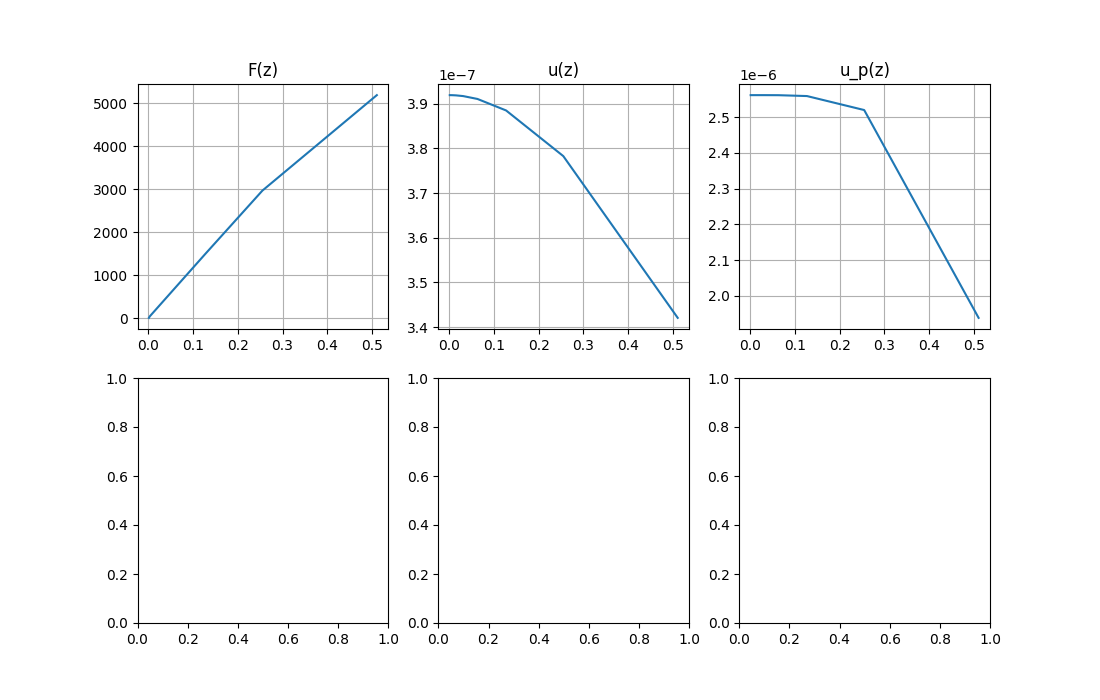
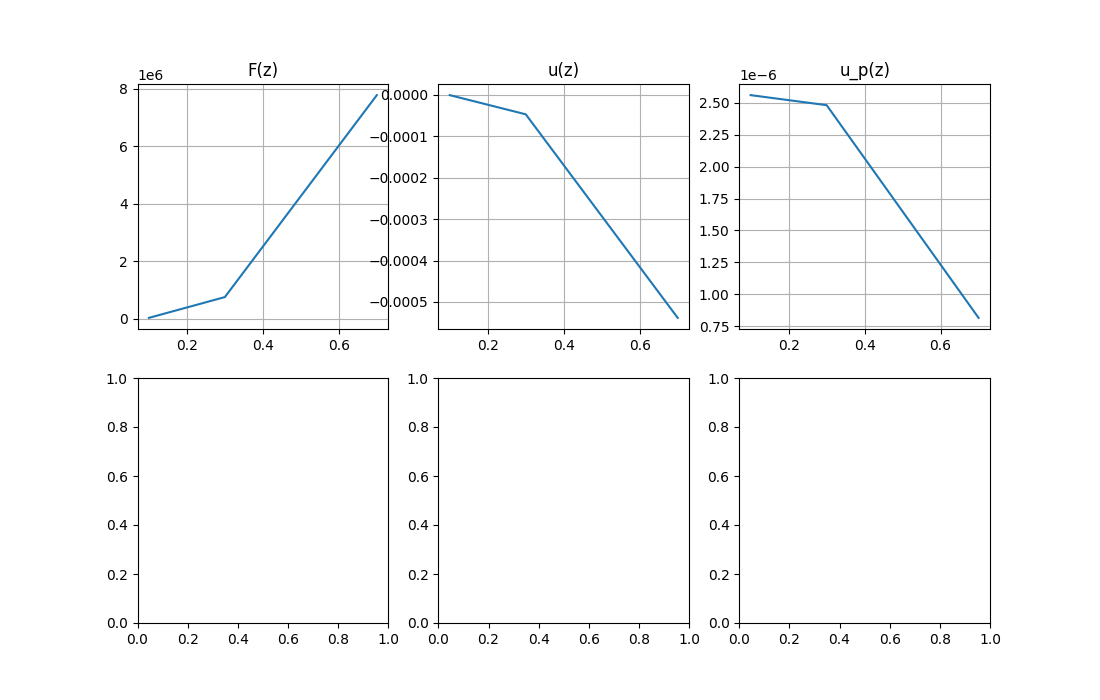
сдал

diff --git a/model/labs/lab_02/src/solution_system.py b/model/labs/lab_02/src/solution_system.py
@@ -2,7 +2,6 @@ import numpy as np
 import matplotlib.pyplot as plt
 from scipy.integrate import solve_ivp
 from typing import Callable
-from decimal import Decimal
 
 from radiation_transfer_system import RadiationTransferSystem
 
@@ -25,7 +24,7 @@ class SolutionSystemByShootingMethod:
         self.__a = 0
         self.__b = 1
 
-        self.__n = 10  # число узлов
+        self.__n = 31  # число узлов
         self.__h = (self.__b - self.__a) / self.__n  # шаг
 
         # ksi <= 1 и, наверное, больше нуля
@@ -188,7 +187,7 @@ class SolutionSystemByShootingMethod:
 
             err = abs((ksi_end - ksi_start) / ksi_curr)
 
-            print(f"err = {err: <10.7e}")
+            # print(f"err = {err: <10.7e}")
 
             if err <= EPS:
                 condition = False
@@ -206,7 +205,7 @@ class SolutionSystemByShootingMethod:
 
         z, u, f, ksi_start, ksi_end = self.__get_solve_by_rk(
             a=self.__a,
-            b=self.__b,
+            b=self.__b + self.__h,
             h=self.__h,
             func_rk=self.__runge_kutta_2
         )
@@ -219,7 +218,7 @@ class SolutionSystemByShootingMethod:
         """
         z, u, f, ksi_start, ksi_end = self.__get_solve_by_rk(
             a=self.__a,
-            b=self.__b,
+            b=self.__b + self.__h,
             h=self.__h,
             func_rk=self.__runge_kutta_4
         )
@@ -270,7 +269,7 @@ class SolutionSystemByShootingMethod:
                 if err < EPS:
                     count += 1
 
-            if count == len(u_rk2):
+            if count == len(u_rk2) - 1:
                 break
 
             self.__n += 1  # число узлов
@@ -297,51 +296,60 @@ class SolutionSystemByShootingMethod:
         Пытаюсь реализовать автоматический выбор шага
         """
         z = self.__a
-        h = 0.001
+        h = 0.1
 
         z_res, u_res, f_res = list(), list(), list()
 
-        while z <= self.__b:
-            print(f"cacl by h")
-            _, u_h, _, _, _ = self.__get_solve_by_rk(self.__a, z + 2 * h, h, self.__runge_kutta_4)
-            print(f"cacl by h / 2")
-            _, u_h_2, _, _, _ = self.__get_solve_by_rk(self.__a, z + 2 * h, h / 2, self.__runge_kutta_4)
+        with open(f"../data/auto_step_sel.txt", "w", encoding="utf-8") as file:
+            file.write("-" * 61 + "\n")
+            file.write(f'| {"x": ^7} | {"u(z) РК4": ^22} | {"f(z) РК4": ^22} |\n')
+            file.write("-" * 61 + "\n")
 
-            # print(f"cacl by h")
-            # _, u_h, _, = self.__runge_kutta_4(self.__a, z + 2 * h, h, 0.1530 * self.__system.u_p(0), self.__f_0)
-            # print(f"cacl by h / 2")
-            # _, u_h_2, _, = self.__runge_kutta_4(self.__a, z + 2 * h, h / 2, 0.1530 * self.__system.u_p(0), self.__f_0)
-
-            # локальная погрешность по формуле Рунге
-            abs_err = abs((u_h_2[-1] - u_h[-1]) / (1 - 1 / 2 ** 4))
-            print(f"abs_err = {abs_err: <10.7e}")
-
-            while abs_err > EPS:
-                h = h / 2
-
+            while z <= self.__b:
+                # print(f"cacl by h")
                 _, u_h, _, _, _ = self.__get_solve_by_rk(self.__a, z + 2 * h, h, self.__runge_kutta_4)
+                # print(f"cacl by h / 2")
                 _, u_h_2, _, _, _ = self.__get_solve_by_rk(self.__a, z + 2 * h, h / 2, self.__runge_kutta_4)
 
+                # print(f"cacl by h")
                 # _, u_h, _, = self.__runge_kutta_4(self.__a, z + 2 * h, h, 0.1530 * self.__system.u_p(0), self.__f_0)
-                # _, u_h_2, _, = self.__runge_kutta_4(self.__a, z + 2 * h, h / 2, 0.1530 * self.__system.u_p(0),
-                #                                     self.__f_0)
+                # print(f"cacl by h / 2")
+                # _, u_h_2, _, = self.__runge_kutta_4(self.__a, z + 2 * h, h / 2, 0.1530 * self.__system.u_p(0), self.__f_0)
 
                 # локальная погрешность по формуле Рунге
                 abs_err = abs((u_h_2[-1] - u_h[-1]) / (1 - 1 / 2 ** 4))
+                # print(f"abs_err = {abs_err: <10.7e}")
 
-            _, u_h, f_h, = self.__runge_kutta_4(self.__a, z + 2 * h, h, 0.1530 * self.__system.u_p(0), self.__f_0)
-            # _, u_h, f_h, _, _ = self.__get_solve_by_rk(self.__a, z + 2 * h, h, self.__runge_kutta_4)
+                while abs_err > EPS:
+                    h = h / 2
 
-            z += h
-            z_res.append(z)
-            u_res.append(u_h[-1])
-            f_res.append(f_h[-1])
+                    _, u_h, _, _, _ = self.__get_solve_by_rk(self.__a, z + 2 * h, h, self.__runge_kutta_4)
+                    _, u_h_2, _, _, _ = self.__get_solve_by_rk(self.__a, z + 2 * h, h / 2, self.__runge_kutta_4)
 
-            if abs_err < EPS / 32:
-                h *= 2
+                    # _, u_h, _, = self.__runge_kutta_4(self.__a, z + 2 * h, h, 0.1530 * self.__system.u_p(0), self.__f_0)
+                    # _, u_h_2, _, = self.__runge_kutta_4(self.__a, z + 2 * h, h / 2, 0.1530 * self.__system.u_p(0),
+                    #                                     self.__f_0)
 
-            if z + h > self.__b:
-                break
+                    # локальная погрешность по формуле Рунге
+                    abs_err = abs((u_h_2[-1] - u_h[-1]) / (1 - 1 / 2 ** 4))
+
+                _, u_h, f_h, = self.__runge_kutta_4(self.__a, z + 2 * h, h, 0.1530 * self.__system.u_p(0), self.__f_0)
+                # _, u_h, f_h, _, _ = self.__get_solve_by_rk(self.__a, z + 2 * h, h, self.__runge_kutta_4)
+
+                z += h
+                z_res.append(z)
+                u_res.append(u_h[-1])
+                f_res.append(f_h[-1])
+
+                file.write(f"| {z: ^7.5f} | {u_h[-1]: ^22.6e} | {f_h[-1]: ^22.6e} |\n")
+
+                if abs_err < EPS / 32:
+                    h *= 2
+
+                if z + h > self.__b:
+                    break
+
+            file.write("-" * 61)
 
         z_res = np.array(z_res)
         u_res = np.array(u_res)

diff --git a/model/labs/lab_02/src/radiation_transfer_system.py b/model/labs/lab_02/src/radiation_transfer_system.py
@@ -28,6 +28,12 @@ class RadiationTransferSystem:
         Пост-инициализация атрибутов класса
         """
         self.__orig_data_k1 = self.__read_k("../data/k1.txt")
+
+        # const = 20
+        #
+        # for i, val in enumerate(self.__orig_data_k1):
+        #     self.__orig_data_k1[val] *= const
+
         self.__orig_data_k2 = self.__read_k("../data/k2.txt")
 
         self.__a1, self.__b1 = self.__data_to_interp(self.__orig_data_k1)
@@ -99,6 +105,10 @@ class RadiationTransferSystem:
     @property
     def c(self):
         return self.__c
+
+    @property
+    def orig_data_k1(self):
+        return self.__orig_data_k1
 
     @staticmethod
     def __read_k(filename: str) -> dict:

diff --git a/model/labs/lab_02/src/main.py b/model/labs/lab_02/src/main.py
@@ -11,9 +11,10 @@ def main() -> None:
     # ex.print_solve(ex.get_solve_by_rk_2, "../data/cmp_rk2_rk4.png")
 
     # ex.print_solve(ex.get_solve_by_rk_2, "rk2")
-    # ex.print_solve(ex.get_solve_by_rk_4, "rk4")
+    ex.print_solve(ex.get_solve_by_rk_4, "rk4")
+
     # ex.cmp_rk2_rk4()
-    ex.get_solve_by_auto_step_sel()
+    # ex.get_solve_by_auto_step_sel()
 
 
 if __name__ == '__main__':
